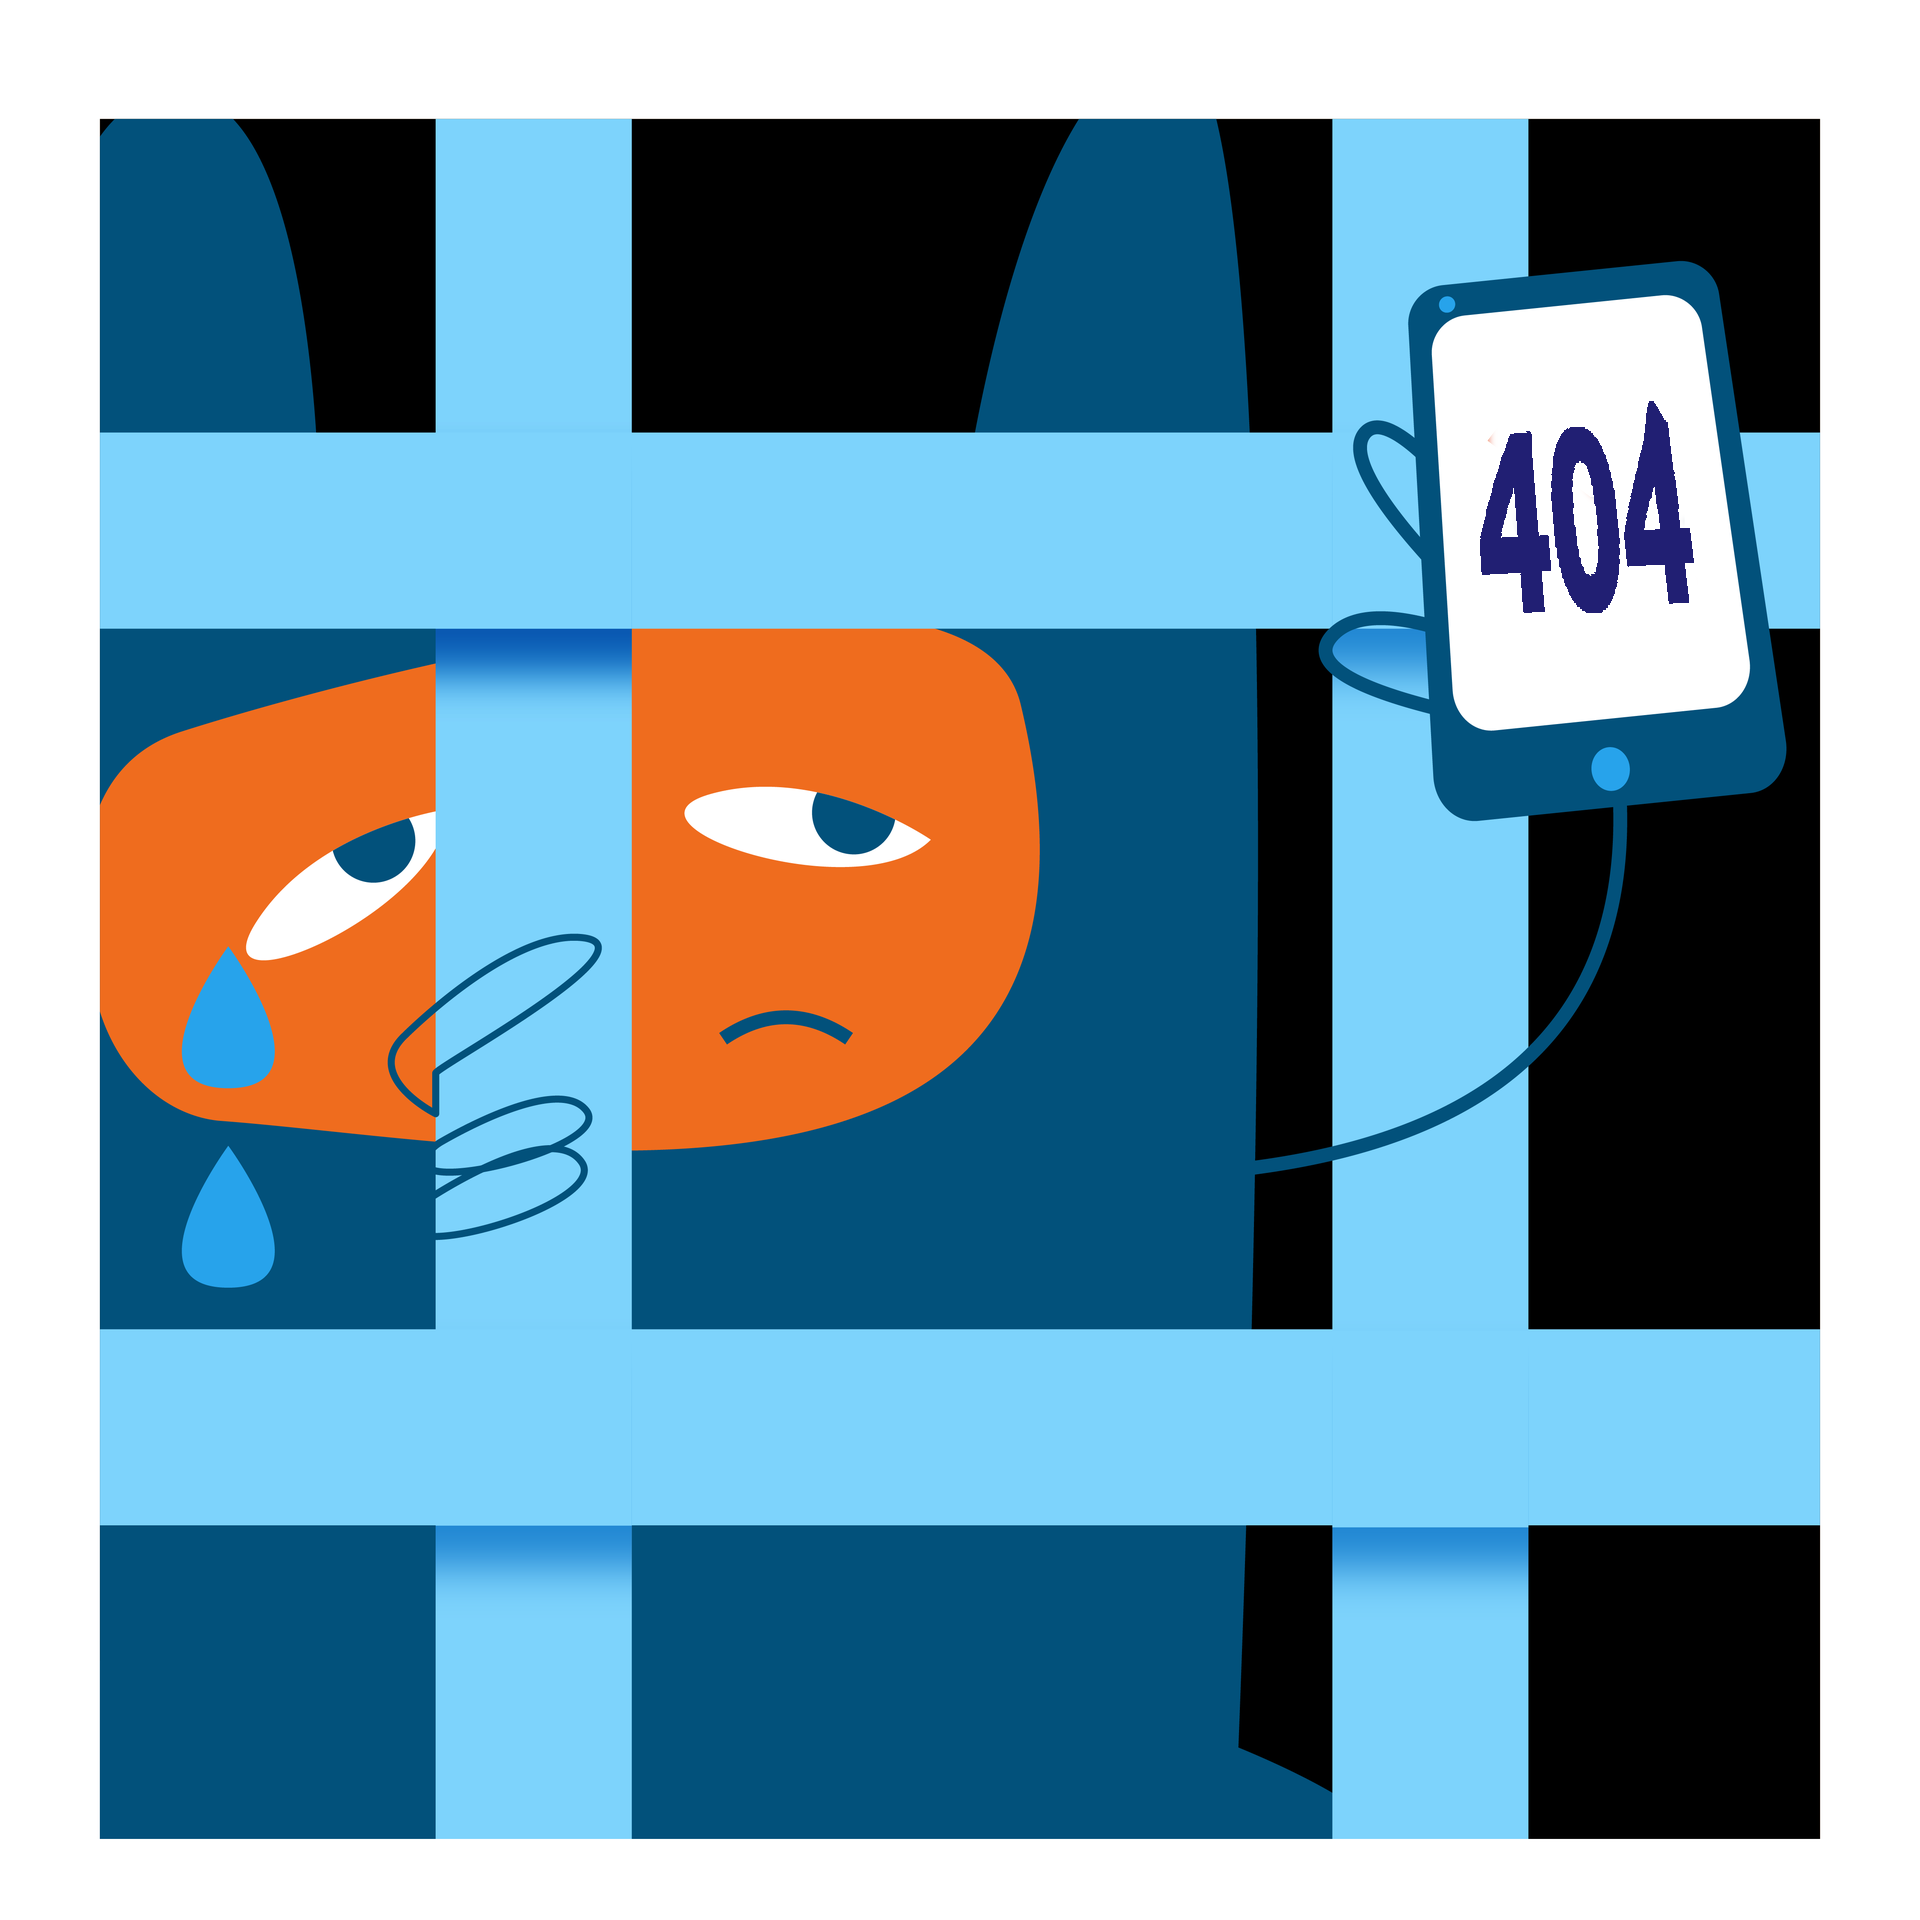
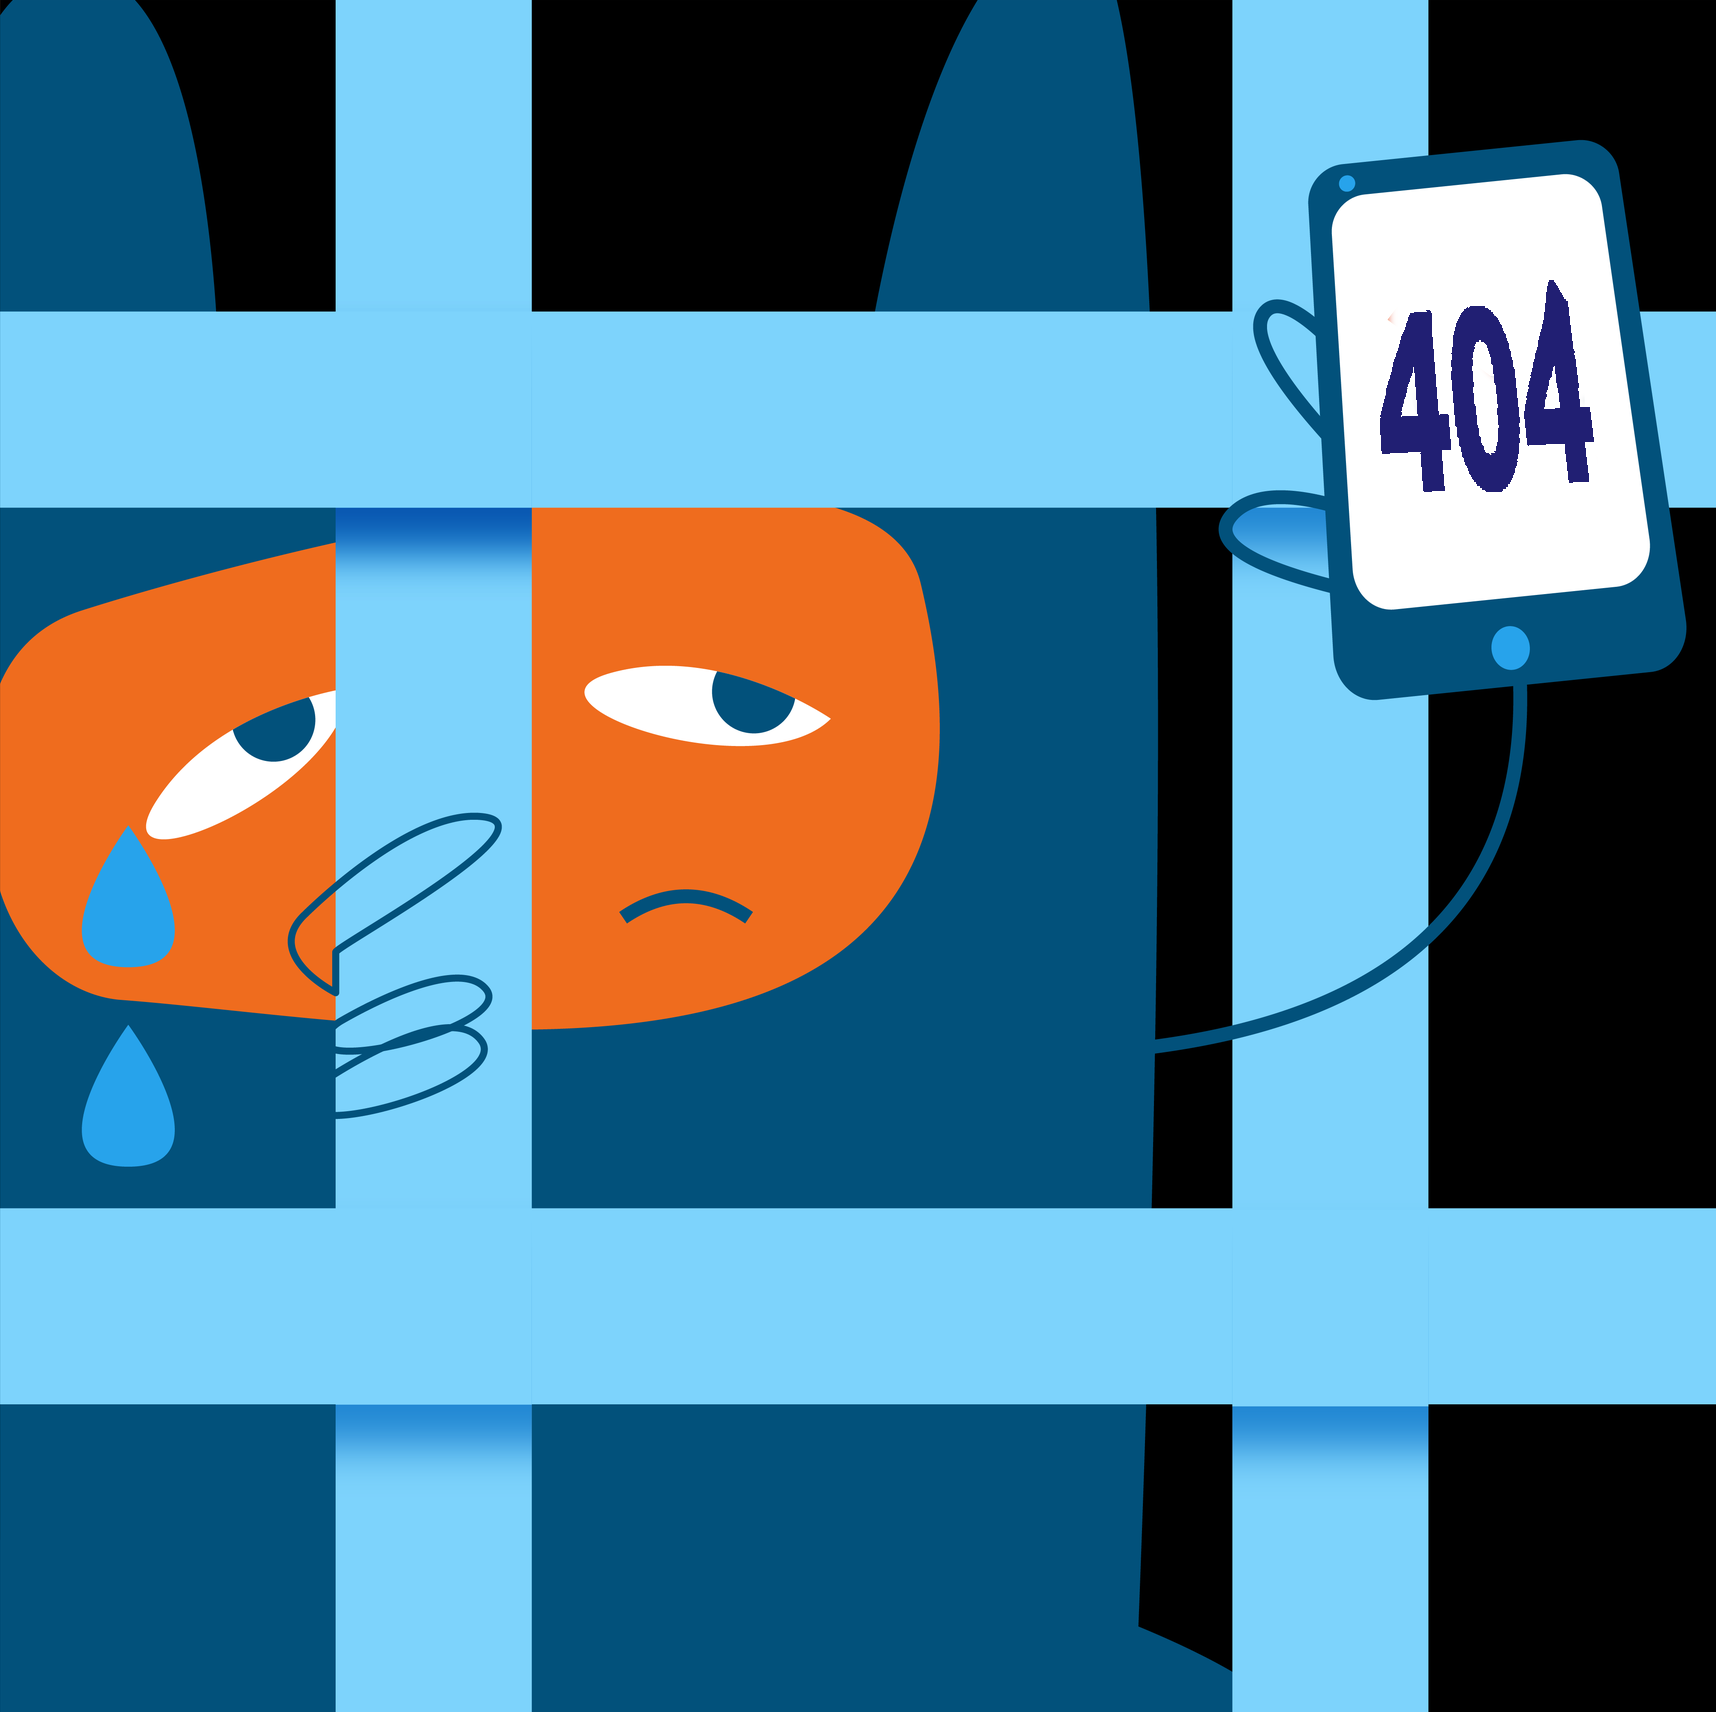
Address MR feedback

diff --git a/css/ceno.css b/css/ceno.css
@@ -1,5 +1,7 @@
-/* @import url('https://fonts.googleapis.com/css?family=Lato:300,400,700'); */  /* disabled for privacy reasons */
-@import 'all.css';  /* Font Awesome */
+/* @import url('https://fonts.googleapis.com/css?family=Lato:300,400,700'); */
+/* disabled for privacy reasons */
+@import 'all.css';
+/* Font Awesome */
 
 body {
     font-family: Inter, sans-serif !important;
@@ -29,7 +31,7 @@ h3 {
     font-family: Metropolis, sans-serif;
     font-size: 1.4em;
     color: #0369A1;
-    font-weight:500;
+    font-weight: 500;
     margin-top: 20px !important;
 }
 
@@ -50,7 +52,9 @@ a:hover {
 }
 
 
-a, a:visited, a:hover {
+a,
+a:visited,
+a:hover {
     text-decoration: none;
 }
 
@@ -83,8 +87,8 @@ img#equalitieLogo {
     width: 162px;
 }
 
-img.hasBorder { 
-    border:2px solid #0EA5E9;
+img.hasBorder {
+    border: 2px solid #0EA5E9;
     border-radius: 15px;
 }
 
@@ -97,34 +101,34 @@ div.row {
     margin-bottom: 40px;
 }
 
-.section > h2 {
+.section>h2 {
     -margin-top: 40px;
     margin-bottom: 30px;
 }
 
 .icons i,
 .icons svg {
-   color: #0369A1;
+    color: #0369A1;
 }
 
 .btn-danger {
     color: #0369A1;
-    font-size:1em;
+    font-size: 1em;
 }
 
 .btn-outline-danger {
     border-color: #C2410C;
-    font-size:1.25em;
+    font-size: 1.25em;
     color: #C2410C;
 }
 
 .btn-outline-danger:hover {
-   background-color: #EA580C;
-   border-color: #EA580C;
-   color: #FFFFFF;
+    background-color: #EA580C;
+    border-color: #EA580C;
+    color: #FFFFFF;
 }
 
-.navbar-light .navbar-nav .nav-link {    
+.navbar-light .navbar-nav .nav-link {
     background-color: white;
     color: #0369A1;
 }
@@ -152,4 +156,37 @@ div.row {
 [dir=rtl] .fa-pull-end {
     float: left;
     margin-right: .3em;
+}
+
+.error-page {
+    display: grid;
+    grid-template-columns: minmax(200px, 400px) minmax(452px, 600px);
+    column-gap: 5rem;
+    justify-content: center;
+}
+
+.error-page-text {
+    align-self: center;
+    display: grid;
+    grid-template-rows: max-content max-content max-content;
+    grid-row-gap: 1rem;
+}
+
+@media only screen and (max-width: 768px) {
+    .error-page {
+        grid-template-columns: 1fr;
+        grid-template-rows: max-content min-content;
+        grid-row-gap: 2rem;
+        justify-items: center;
+    }
+
+    .error-page-text {
+        grid-row: 2;
+        max-width: 375px;
+        align-items: center;
+    }
+
+    .error-page-hero-img {
+        grid-row: 1;
+    }
 }

diff --git a/en/404.html b/en/404.html
@@ -154,16 +154,15 @@
 <main role="main">
 
 <!--title></title-->
-<div style="display: grid; justify-content: center; margin-bottom: -4rem;">
-    <div class="container-md section">
-        <h1><strong>ERROR 404: Page Not Found</strong></h1>
-        <img src="../img/404.png" width="573" height="570" style="margin-bottom: 1rem;" />
-        <div style="display: flex; justify-content: center;">
-            <a class="btn btn-outline-danger" style="font-size:1.08rem;" href="index.html" role="button"
-                title="Get Ceno">Return Home</a>
-            <a class="nav-link" style="font-size:1.08rem; margin-left: 0.75em;" href="support.html" role="button"
-                title="Get Ceno">Support</a>
-        </div>
+<div class="container-md section error-page">
+    <div class="error-page-text">
+        <h4>Sorry, we can't find the page you're looking for</h4>
+        <p>That link didn't work. You can return to the <a href="index.html">homepage</a> or get <a
+                href="support.html">support</a>.</p>
+        <a class="btn btn-outline-danger" style="font-size:1.08rem;" href="index.html" role="button" title="Get Ceno">Go
+            to censorship.no</a>
+    </div>
+    <div class="error-page-hero-img"> <img src="../img/404.png" width="452" height="450" style="margin-bottom: 1rem;" />
     </div>
 </div>
 </main>

diff --git a/en.src/404.html b/en.src/404.html
@@ -1,12 +1,11 @@
-<div style="display: grid; justify-content: center; margin-bottom: -4rem;">
-    <div class="container-md section">
-        <h1><strong>ERROR 404: Page Not Found</strong></h1>
-        <img src="../img/404.png" width="573" height="570" style="margin-bottom: 1rem;" />
-        <div style="display: flex; justify-content: center;">
-            <a class="btn btn-outline-danger" style="font-size:1.08rem;" href="index.html" role="button"
-                title="Get Ceno">Return Home</a>
-            <a class="nav-link" style="font-size:1.08rem; margin-left: 0.75em;" href="support.html" role="button"
-                title="Get Ceno">Support</a>
-        </div>
+<div class="container-md section error-page">
+    <div class="error-page-text">
+        <h4>Sorry, we can't find the page you're looking for</h4>
+        <p>That link didn't work. You can return to the <a href="index.html">homepage</a> or get <a
+                href="support.html">support</a>.</p>
+        <a class="btn btn-outline-danger" style="font-size:1.08rem;" href="index.html" role="button" title="Get Ceno">Go
+            to censorship.no</a>
+    </div>
+    <div class="error-page-hero-img"> <img src="../img/404.png" width="452" height="450" style="margin-bottom: 1rem;" />
     </div>
 </div>
